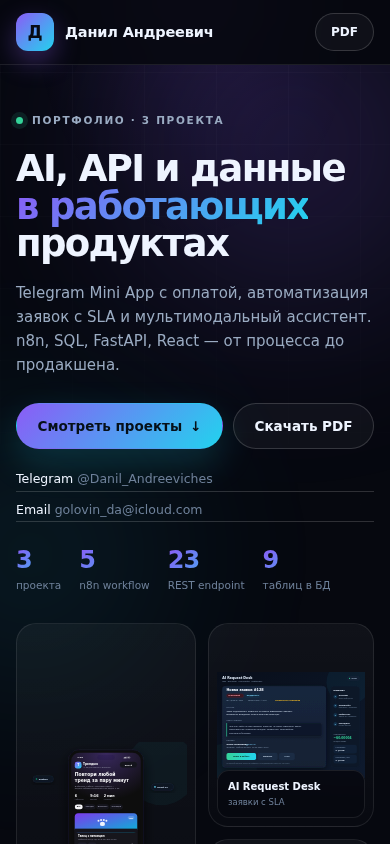
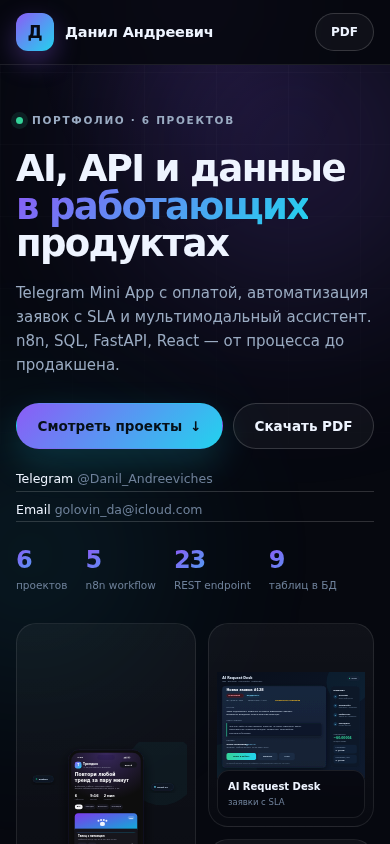
Add extra projects, Vlada_BROWS case and GitHub links

diff --git a/index.html b/index.html
@@ -30,7 +30,7 @@
       <div class="hero-bg" aria-hidden="true"><span class="orb orb-1"></span><span class="orb orb-2"></span><span class="grid"></span></div>
       <div class="wrap hero-grid">
         <div class="hero-copy">
-          <div class="eyebrow"><span class="dot"></span> Портфолио · 3 проекта</div>
+          <div class="eyebrow"><span class="dot"></span> Портфолио · 6 проектов</div>
           <h1>AI, API и данные <span class="grad">в работающих</span> продуктах</h1>
           <p class="lead">
             Telegram Mini App с оплатой, автоматизация заявок с SLA и мультимодальный
@@ -45,7 +45,7 @@
             <a href="mailto:golovin_da@icloud.com">Email <span>golovin_da@icloud.com</span></a>
           </div>
           <div class="hero-stats">
-            <div><b data-count="3">3</b><span>проекта</span></div>
+            <div><b data-count="6">6</b><span>проектов</span></div>
             <div><b data-count="5">5</b><span>n8n workflow</span></div>
             <div><b data-count="23">23</b><span>REST endpoint</span></div>
             <div><b data-count="9">9</b><span>таблиц в БД</span></div>
@@ -149,6 +149,64 @@
         <a href="https://t.me/danil_agent_ai_bot" target="_blank" rel="noreferrer">@danil_agent_ai_bot <small>AI-ассистент</small></a>
         <a href="https://hansslanda.ru" target="_blank" rel="noreferrer">hansslanda.ru <small>live app</small></a>
         <a href="https://github.com/Dated-cpu/portfolio" target="_blank" rel="noreferrer">GitHub <small>portfolio</small></a>
+      </div>
+    </section>
+
+    <section class="section more-section" id="more">
+      <div class="wrap section-head">
+        <div class="eyebrow"><span class="dot"></span> Ещё проекты</div>
+        <h2>Больше работы: от продакшена до экспериментов</h2>
+        <p class="section-lead">Коммерческая платформа, backend-фундамент и креативный фронтенд.</p>
+      </div>
+
+      <div class="wrap more-grid">
+        <article class="more-card more-card-wide">
+          <div class="more-cover"><img src="assets/vlada-home.png" alt="Vlada_BROWS — платформа студии бровей и ресниц"></div>
+          <div class="more-body">
+            <span class="project-tag">Production · Full-stack</span>
+            <h3>Vlada_BROWS</h3>
+            <p>Коммерческая платформа для студии бровей и ресниц: лендинг, онлайн-запись, OAuth VK/Яндекс, админ-панель, аудит и защита от CSRF/CSP.</p>
+            <div class="more-metrics"><span><b>20</b> моделей Prisma</span><span><b>361</b> unit</span><span><b>65</b> e2e</span><span><b>OAuth</b> VK · Яндекс</span></div>
+            <div class="more-actions">
+              <a class="btn btn-small btn-primary" href="https://beauty-master-platform.vercel.app" target="_blank" rel="noreferrer">Live ↗</a>
+              <button class="btn btn-small btn-ghost" type="button" data-open="vlada">Подробнее</button>
+            </div>
+            <small class="more-note">Коммерческий проект · код приватный по договорённости</small>
+          </div>
+        </article>
+
+        <article class="more-card">
+          <div class="more-cover"><img src="assets/bookflow-card.svg" alt="BookFlow AI — backend architecture"></div>
+          <div class="more-body">
+            <span class="project-tag">Backend · SQL</span>
+            <h3>BookFlow AI</h3>
+            <p>Фундамент scheduling-SaaS: FastAPI, async SQLAlchemy, PostgreSQL, Clean Architecture, JWT и тесты.</p>
+            <div class="more-actions">
+              <a class="btn btn-small btn-primary" href="https://github.com/Dated-cpu/BookFlow" target="_blank" rel="noreferrer">GitHub ↗</a>
+              <button class="btn btn-small btn-ghost" type="button" data-open="bookflow">Подробнее</button>
+            </div>
+          </div>
+        </article>
+
+        <article class="more-card">
+          <div class="more-cover"><img src="assets/love-card.svg" alt="Digital Love Experience — creative frontend"></div>
+          <div class="more-body">
+            <span class="project-tag">Creative frontend</span>
+            <h3>Digital Love Experience</h3>
+            <p>Кинематографичный сайт-подарок: Next.js, 3D-галерея, timeline, particles, confetti и reduced-motion.</p>
+            <div class="more-actions">
+              <a class="btn btn-small btn-primary" href="https://github.com/Dated-cpu/love-experience" target="_blank" rel="noreferrer">GitHub ↗</a>
+              <button class="btn btn-small btn-ghost" type="button" data-open="love">Подробнее</button>
+            </div>
+          </div>
+        </article>
+      </div>
+
+      <div class="wrap quick-links">
+        <span class="quick-label">Ещё на GitHub</span>
+        <a href="https://github.com/Dated-cpu/barberpro" target="_blank" rel="noreferrer">BarberPro <small>booking SaaS</small></a>
+        <a href="https://github.com/Dated-cpu/old-game" target="_blank" rel="noreferrer">NostalgiaOS <small>retro games</small></a>
+        <a href="https://github.com/Dated-cpu" target="_blank" rel="noreferrer">Все репозитории <small>GitHub</small></a>
       </div>
     </section>
 

diff --git a/app.js b/app.js
@@ -43,6 +43,69 @@
         { label: 'PDF · стр. 3', href: 'portfolio.pdf#page=3', external: true },
       ],
     },
+    vlada: {
+      tag: 'Production',
+      title: 'Vlada_BROWS',
+      tagline: 'Коммерческая платформа для студии бровей и ресниц: лендинг, запись, OAuth и админ-панель',
+      image: 'assets/vlada-home.png',
+      problem: 'Студии нужен не просто лендинг, а запись, расписание, клиенты, услуги, отзывы и управление контентом.',
+      solution: 'Next.js 15 + tRPC + Prisma + PostgreSQL: публичный сайт, онлайн-запись, OAuth VK/Яндекс, RBAC и админ-панель.',
+      role: 'Full-stack: архитектура, backend, frontend, OAuth, безопасность, тесты и деплой.',
+      metrics: [['20', 'моделей Prisma'], ['361', 'unit-тестов'], ['65', 'e2e-тестов'], ['2', 'OAuth-провайдера']],
+      stack: ['Next.js 15', 'React 19', 'TypeScript', 'tRPC 11', 'Prisma 6', 'PostgreSQL 16', 'Tailwind 4', 'Zod', 'Vitest', 'Playwright', 'Vercel'],
+      highlights: [
+        'OAuth VK и Яндекс с PKCE, state и httpOnly cookies.',
+        'RBAC user / master / admin, GRANT-ONLY через серверный allowlist.',
+        'CSP nonce, CSRF, rate limit, audit log и валидация env через Zod.',
+        'Онлайн-запись, расписание, услуги, отзывы, медиа и админ-панель.',
+        '361 unit + 65 e2e, CI и Husky/lint-staged.',
+      ],
+      note: 'Коммерческий проект: live-версия открыта, код приватный по договорённости.',
+      links: [
+        { label: 'Открыть live ↗', href: 'https://beauty-master-platform.vercel.app', external: true, primary: true },
+        { label: 'GitHub профиль', href: 'https://github.com/Dated-cpu', external: true },
+      ],
+    },
+    bookflow: {
+      tag: 'Backend · SQL',
+      title: 'BookFlow AI',
+      tagline: 'Scheduling SaaS foundation: FastAPI, async SQLAlchemy, PostgreSQL и Clean Architecture',
+      image: 'assets/bookflow-card.svg',
+      problem: 'Нужен масштабируемый backend для записи: доменная логика не должна зависеть от фреймворка, БД и HTTP.',
+      solution: 'Слои domain / application / infrastructure / presentation, repository pattern, async SQLAlchemy, JWT, Alembic и Docker.',
+      role: 'Архитектура, backend, схема БД, auth, тесты и Docker.',
+      metrics: [['FastAPI', 'API'], ['PostgreSQL', 'БД'], ['Clean', 'Architecture'], ['async', 'SQLAlchemy']],
+      stack: ['Python 3.13', 'FastAPI', 'SQLAlchemy 2', 'PostgreSQL', 'Alembic', 'JWT', 'Docker', 'Ruff', 'mypy', 'pytest'],
+      highlights: [
+        'Domain layer без зависимостей от фреймворка и ORM.',
+        'Repository pattern и DI: зависимости направлены внутрь.',
+        'Async SQLAlchemy и миграции Alembic.',
+        'JWT auth, тесты и Docker Compose для локального запуска.',
+      ],
+      links: [
+        { label: 'Открыть GitHub ↗', href: 'https://github.com/Dated-cpu/BookFlow', external: true, primary: true },
+      ],
+    },
+    love: {
+      tag: 'Creative frontend',
+      title: 'Digital Love Experience',
+      tagline: 'Кинематографичный сайт-подарок на Next.js с 3D-галереей и анимациями',
+      image: 'assets/love-card.svg',
+      problem: 'Нужно сделать цифровой подарок, который ощущается как личная история, а не шаблонный лендинг.',
+      solution: 'Next.js + TypeScript + Framer Motion: hero с particles, 3D-галерея, timeline, интерактивные карточки и confetti.',
+      role: 'Идея, дизайн, frontend, анимации и адаптив.',
+      metrics: [['Next.js', 'framework'], ['TS', 'strict'], ['3D', 'gallery'], ['a11y', 'reduced-motion']],
+      stack: ['Next.js', 'React', 'TypeScript', 'Framer Motion', 'CSS', 'Vercel-ready'],
+      highlights: [
+        'Hero с floating particles и анимированным градиентом.',
+        '3D-галерея воспоминаний с tilt-эффектом.',
+        'Timeline и раскрывающиеся карточки.',
+        'Confetti, heart particles и поддержка reduced-motion.',
+      ],
+      links: [
+        { label: 'Открыть GitHub ↗', href: 'https://github.com/Dated-cpu/love-experience', external: true, primary: true },
+      ],
+    },
     bot: {
       tag: 'AI',
       title: 'AI-ассистент',
@@ -103,6 +166,7 @@
       <div class="modal-metrics">${metrics}</div>
       <div class="modal-stack">${stack}</div>
       <ul class="modal-highlights">${highlights}</ul>
+      ${project.note ? `<p class="modal-note">${esc(project.note)}</p>` : ''}
       <div class="modal-links">${links}</div>
     `;
   }

diff --git a/styles.css b/styles.css
@@ -312,6 +312,41 @@ img, svg { display: block; max-width: 100%; }
   font-weight: 500;
 }
 
+.more-section { padding-top: 20px; }
+.more-grid {
+  display: grid;
+  grid-template-columns: 1fr 1fr;
+  gap: 14px;
+}
+.more-card {
+  display: flex;
+  flex-direction: column;
+  border: 1px solid var(--line);
+  border-radius: 22px;
+  background: linear-gradient(180deg, rgba(255, 255, 255, 0.035), rgba(255, 255, 255, 0.012));
+  overflow: hidden;
+  transition: transform 0.18s ease, border-color 0.18s ease, box-shadow 0.18s ease;
+}
+.more-card:hover { transform: translateY(-2px); border-color: var(--line-strong); box-shadow: 0 18px 50px rgba(0, 0, 0, 0.28); }
+.more-card-wide { grid-column: 1 / -1; display: grid; grid-template-columns: 1.1fr 0.9fr; align-items: stretch; }
+.more-cover {
+  min-height: 190px;
+  background: rgba(0, 0, 0, 0.22);
+  overflow: hidden;
+}
+.more-cover img { width: 100%; height: 100%; min-height: 190px; object-fit: cover; display: block; }
+.more-card-wide .more-cover { min-height: 320px; }
+.more-card-wide .more-cover img { min-height: 320px; object-position: top; }
+.more-body { padding: 20px; display: flex; flex-direction: column; gap: 8px; }
+.more-body h3 { margin: 0; font-size: 24px; line-height: 1.05; letter-spacing: -0.04em; }
+.more-body p { margin: 0; color: var(--muted); font-size: 12.5px; line-height: 1.55; }
+.more-body .project-tag { margin-bottom: 2px; align-self: flex-start; }
+.more-metrics { display: flex; flex-wrap: wrap; gap: 12px; margin: 4px 0 2px; }
+.more-metrics span { color: var(--muted-2); font-size: 10px; }
+.more-metrics b { color: var(--text); font-size: 12px; margin-right: 3px; }
+.more-actions { display: flex; flex-wrap: wrap; gap: 7px; margin-top: auto; padding-top: 8px; }
+.more-note { color: var(--muted-2); font-size: 9.5px; }
+
 /* skills */
 .skills { display: grid; grid-template-columns: repeat(3, 1fr); gap: 12px; }
 .skill {
@@ -387,6 +422,16 @@ img, svg { display: block; max-width: 100%; }
 .modal-highlights { margin: 0 0 18px; padding: 0; list-style: none; display: grid; gap: 7px; }
 .modal-highlights li { position: relative; padding-left: 16px; color: var(--muted); font-size: 11.5px; line-height: 1.5; }
 .modal-highlights li::before { content: ""; position: absolute; left: 0; top: 7px; width: 5px; height: 5px; border-radius: 50%; background: var(--cyan); }
+.modal-note {
+  margin: 0 0 12px;
+  padding: 9px 12px;
+  border: 1px solid var(--line);
+  border-radius: 10px;
+  background: rgba(255, 255, 255, 0.025);
+  color: var(--muted-2);
+  font-size: 10.5px;
+}
+
 .modal-links { display: flex; flex-wrap: wrap; gap: 8px; }
 
 /* toast */
@@ -432,6 +477,7 @@ img, svg { display: block; max-width: 100%; }
   .project-visual { height: 190px; }
   .project h3 { font-size: 23px; }
   .project-footer { align-items: flex-start; flex-direction: column; }
+  .more-grid { grid-template-columns: 1fr; }
   .skills { grid-template-columns: 1fr; }
   .contact-actions { grid-template-columns: 1fr; }
   .modal-shell { padding: 20px; }

diff --git a/README.md b/README.md
@@ -31,7 +31,13 @@ landing/
 - Заявки с AI-триажем: https://t.me/zayavka_assist_bot
 - AI-ассистент: https://t.me/danil_agent_ai_bot
 - Живое приложение: https://hansslanda.ru
-- GitHub: https://github.com/Dated-cpu/portfolio
+- Vlada_BROWS (production): https://beauty-master-platform.vercel.app
+- BookFlow AI (backend/SQL): https://github.com/Dated-cpu/BookFlow
+- Digital Love Experience (frontend): https://github.com/Dated-cpu/love-experience
+- BarberPro (booking SaaS): https://github.com/Dated-cpu/barberpro
+- NostalgiaOS (retro games): https://github.com/Dated-cpu/old-game
+- GitHub профиль: https://github.com/Dated-cpu
+- GitHub репозиторий лендинга: https://github.com/Dated-cpu/portfolio
 
 ## Как посмотреть
 
